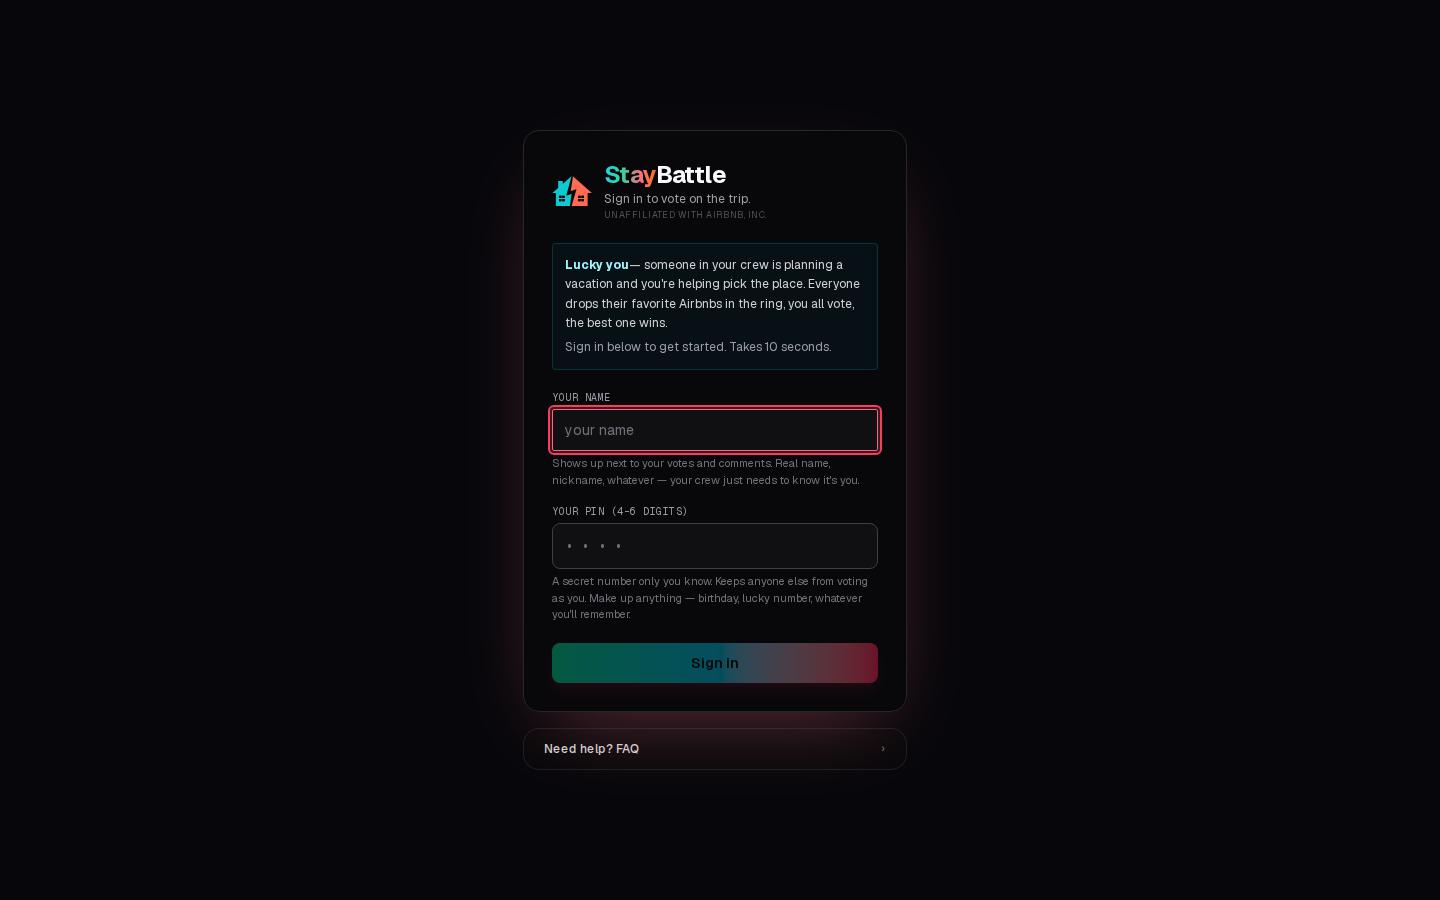
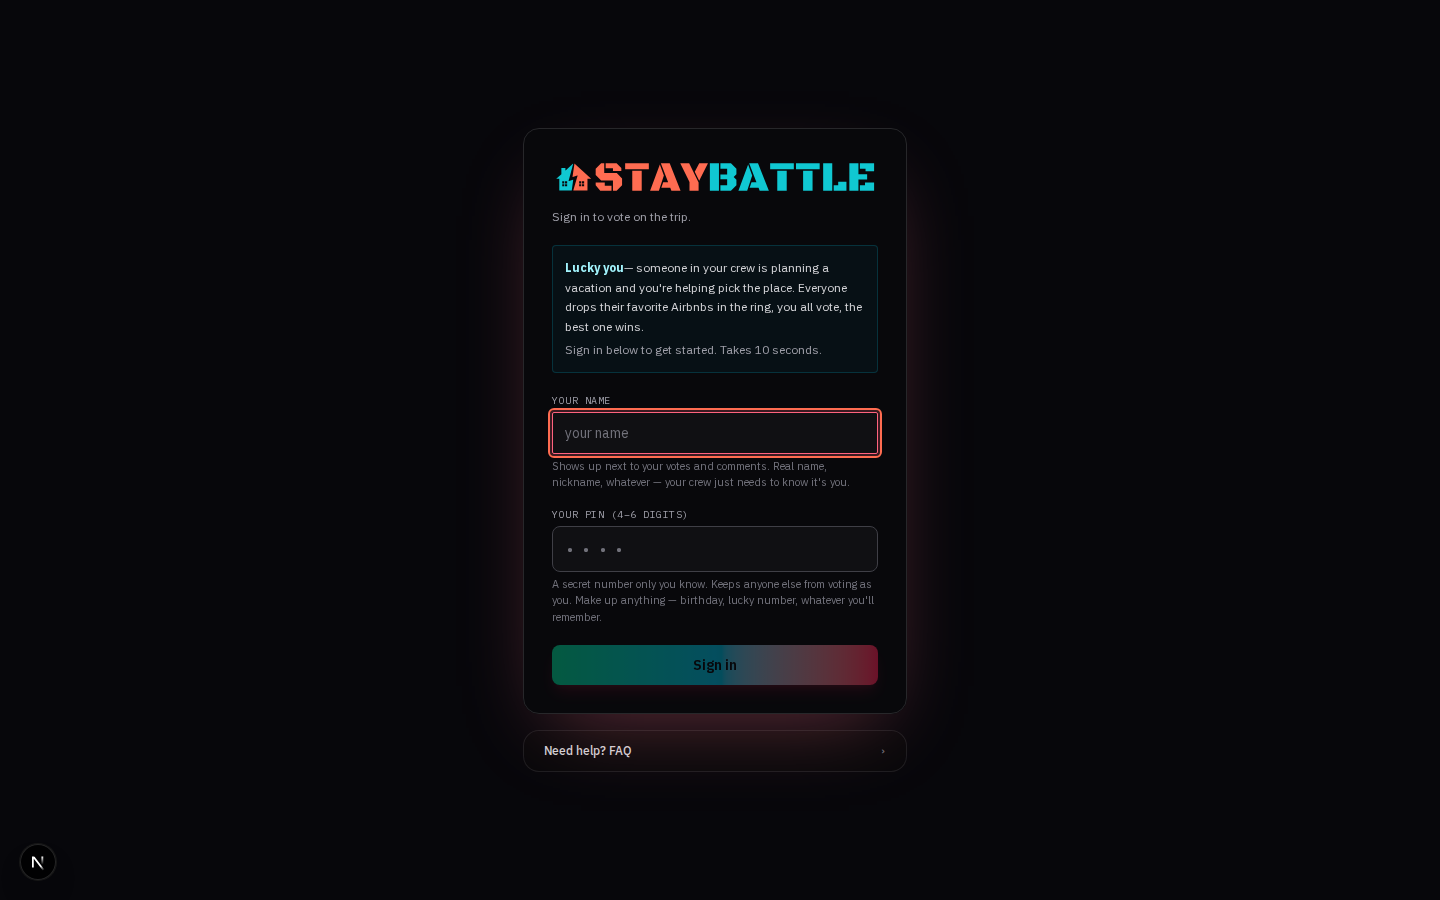
Refresh screenshots + docs for 1-5 voting
- Regenerate all 13 docs/screenshots PNGs against the rebuilt demo DB
  so README/marketing reflect the slider UI, status-colored map pins,
  GTA-style BOOKED stamp, and trophy case with mean-rating podiums.
- seed-demo.mjs: fan ratings across listings using a five-band 1-5
  pattern so the ranking shot has a real gradient; switch podium shape
  to {score, vote_count} to match the live archive snapshot.
- README: point logo banner at the new SVG (the PNG was deleted in the
  brand pass) and update the battle-phase blurb from "vote up or down"
  to "Rate each one 1-5".
- CHANGELOG: add a Changed section covering the voting overhaul, drop-a-
  pin map mode, status-colored pins, availability panel, BOOKED stamp,
  and column toggle.

diff --git a/CHANGELOG.md b/CHANGELOG.md
@@ -4,16 +4,25 @@ All notable changes to StayBattle. Format loosely follows [Keep a Changelog](htt
 
 ## [Unreleased]
 
+### Changed
+- **Voting is now a 1–5 slider** (Nope · Meh · OK · Like · Love) instead of thumb up / thumb down. Scores are now means in the 1.0–5.0 range; old `-1 / +1` rows are migrated to `1` / `5` on first boot.
+- Roster sort modes are now **score · votes (count) · recent** — the old "raw upvotes" mode is gone.
+- Brand book moved to a canonical URL at [staybattle.com/brand](https://staybattle.com/brand). The app subdomain redirects `/brand` to that page.
+
 ### Added
+- **Drop-a-pin** mode on the map: organizers and crew can click anywhere to add a reference place with a name, optional address, and optional URL — no geocoding required.
+- **Status-colored map pins**: available (teal), booked (rose with ✕ overlay), unknown (amber).
+- **Availability panel** for organizers: at-a-glance counts, soft recheck + force recheck with a confirm step, live "checking N of M…" progress, and a "+N newly booked" diff after the run completes.
+- **BOOKED** rubber-stamp overlay covering the whole card (GTA WASTED-style) when a listing falls out of the running.
+- **Column toggle** (Auto · 1 · 2 · 3) on the roster, with persistence to `localStorage` and SVG glyphs for each mode.
 - LICENSE (AGPL-3.0-only), CONTRIBUTING.md, GitHub issue + PR templates, CI workflow.
 - Rate limiting on server actions (per-IP token bucket, in-memory).
 - Content Security Policy + security response headers in `next.config.ts`.
 - Input length caps on names, comments, URLs, and place queries.
 - Vitest test setup with unit tests for `scrape`, `geocode`, and `rank`.
 - Dockerfile + `.dockerignore` for one-command self-hosting.
-- Sort toggle on the roster: by score, raw upvotes, or recency.
 - Image lightbox: clicking a listing photo opens a full-screen viewer with arrow-key nav.
-- Keyboard shortcuts: `/` focuses the URL input, `←`/`→` scroll the roster.
+- Keyboard shortcuts: `/` focuses the URL input, `←`/`→` scroll the roster, `1`–`5` rate in review mode.
 
 ## [0.1.0] — initial
 

diff --git a/README.md b/README.md
@@ -1,6 +1,6 @@
 <div align="center">
 
-<img src="public/logo-banner.png" alt="StayBattle" width="400" />
+<img src="public/logo-banner.svg" alt="StayBattle" width="400" />
 
 # StayBattle
 
@@ -100,8 +100,8 @@ You still book on Airbnb. StayBattle is the meeting table, not the storefront.
 1. **Organizer** sets up a battle: trip name, dates, submission deadline.
 2. **Crew joins** with an invite code, each with their own name + PIN.
 3. **Submission phase** — everyone pastes Airbnb URLs in. The server grabs photos, location, beds/baths, and rating. Others see only anonymized photos until the deadline — no name-dropping, no bias.
-4. **Battle phase** — at the deadline (or when the organizer hits "start now"), everyone can see all submissions. Vote up or down. Leave trash talk. Each submitter's pre-submission "case" sits pinned at the top of the comments.
-5. **Swipe-through review** — a one-card-at-a-time mode for going through the pile.
+4. **Battle phase** — at the deadline (or when the organizer hits "start now"), everyone can see all submissions. Rate each one **1–5** (Nope · Meh · OK · Like · Love). Leave trash talk. Each submitter's pre-submission "case" sits pinned at the top of the comments.
+5. **Swipe-through review** — a one-card-at-a-time mode for going through the pile; drag the slider to rate, swipe direction follows the score.
 6. **Map** — all listings + any landmarks you pin (resorts, theme parks, dinner spots).
 
 You click through to Airbnb to actually book. StayBattle never replaces that step.
